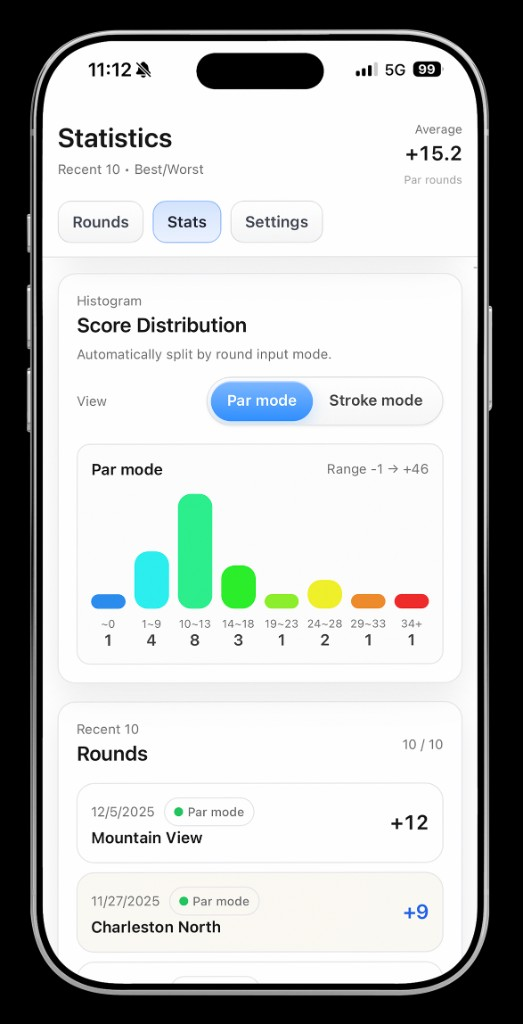
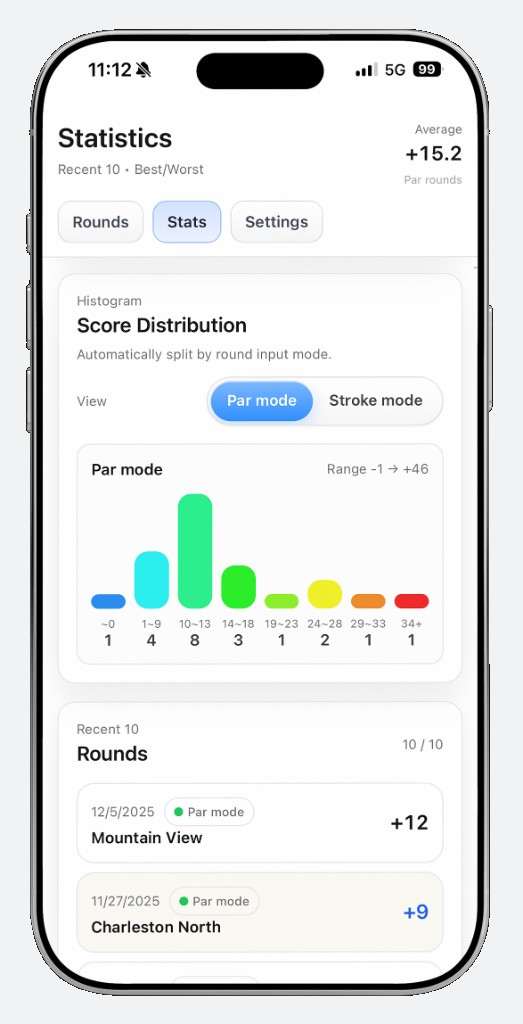
Add a Turnstile-protected contact form and lighten Golf mockups.
Get in touch now scrolls to a homepage form that emails contact@skyface.com via Resend, and the Score Card shots sit on a pale gray canvas.

Changed region(s): [[0.0, 0.0, 1.0, 1.0]]

diff --git a/js/site.js b/js/site.js
@@ -115,6 +115,9 @@
     }, { passive: true });
   }
 
+  const contactForm = document.getElementById("contactForm");
+  if (contactForm) initContactForm(contactForm);
+
   const reduce = window.matchMedia("(prefers-reduced-motion: reduce)").matches;
   const items = document.querySelectorAll(".reveal");
   if (reduce || !("IntersectionObserver" in window)) {
@@ -134,4 +137,96 @@
   );
 
   items.forEach((el) => io.observe(el));
+
+  function loadScript(src) {
+    return new Promise((resolve, reject) => {
+      const existing = [...document.scripts].find((node) => node.src.startsWith(src.split("?")[0]));
+      if (existing) {
+        if (window.turnstile) resolve();
+        else existing.addEventListener("load", resolve, { once: true });
+        return;
+      }
+      const script = document.createElement("script");
+      script.src = src;
+      script.async = true;
+      script.onload = resolve;
+      script.onerror = reject;
+      document.head.appendChild(script);
+    });
+  }
+
+  function initContactForm(form) {
+    const status = form.querySelector(".contact-status");
+    const submit = form.querySelector("[type='submit']");
+    const slot = form.querySelector("#turnstile");
+    let widgetId = null;
+
+    const setStatus = (msg, kind) => {
+      status.hidden = !msg;
+      status.textContent = msg || "";
+      status.classList.toggle("is-error", kind === "error");
+      status.classList.toggle("is-ok", kind === "ok");
+    };
+
+    const boot = async () => {
+      try {
+        const res = await fetch("/api/contact");
+        const data = await res.json().catch(() => ({}));
+        if (!res.ok || !data.siteKey) throw new Error();
+        await loadScript("https://challenges.cloudflare.com/turnstile/v0/api.js?render=explicit");
+        widgetId = window.turnstile.render(slot, {
+          sitekey: data.siteKey,
+          theme: "light",
+        });
+      } catch {
+        setStatus("Spam protection could not load. Try refreshing the page.", "error");
+        submit.disabled = true;
+      }
+    };
+
+    boot();
+
+    form.addEventListener("submit", async (event) => {
+      event.preventDefault();
+      const honey = form.querySelector("[name='company']");
+      if (honey && honey.value.trim()) {
+        setStatus("Thanks – we’ll get back to you soon.", "ok");
+        form.reset();
+        return;
+      }
+
+      const name = form.querySelector("[name='name']").value.trim();
+      const email = form.querySelector("[name='email']").value.trim();
+      const message = form.querySelector("[name='message']").value.trim();
+      const token = widgetId != null && window.turnstile ? window.turnstile.getResponse(widgetId) : "";
+
+      if (name.length < 2 || !email || message.length < 10) {
+        setStatus("Please fill in your name, email, and a short message.", "error");
+        return;
+      }
+      if (!token) {
+        setStatus("Please complete the spam check.", "error");
+        return;
+      }
+
+      submit.disabled = true;
+      setStatus("Sending…");
+      try {
+        const res = await fetch("/api/contact", {
+          method: "POST",
+          headers: { "Content-Type": "application/json" },
+          body: JSON.stringify({ name, email, message, token }),
+        });
+        const data = await res.json().catch(() => ({}));
+        if (!res.ok) throw new Error(data.error || "Send failed");
+        form.reset();
+        if (widgetId != null && window.turnstile) window.turnstile.reset(widgetId);
+        setStatus("Thanks – we’ll get back to you soon.", "ok");
+      } catch (err) {
+        setStatus(err.message || "Something went wrong. Please try again.", "error");
+      } finally {
+        submit.disabled = false;
+      }
+    });
+  }
 })();

diff --git a/api/contact.js b/api/contact.js
@@ -1,0 +1,115 @@
+const TO = process.env.CONTACT_TO || "contact@skyface.com";
+const FROM = process.env.CONTACT_FROM || "Skyface <contact@skyface.com>";
+const EMAIL = /^[^\s@]+@[^\s@]+\.[^\s@]+$/;
+
+function json(status, body) {
+  return new Response(JSON.stringify(body), {
+    status,
+    headers: {
+      "Content-Type": "application/json",
+      "Cache-Control": "no-store",
+    },
+  });
+}
+
+function escapeHtml(value) {
+  return String(value)
+    .replace(/&/g, "&amp;")
+    .replace(/</g, "&lt;")
+    .replace(/>/g, "&gt;")
+    .replace(/"/g, "&quot;");
+}
+
+export async function GET() {
+  const siteKey = process.env.TURNSTILE_SITE_KEY || "";
+  if (!siteKey) return json(503, { error: "Turnstile is not configured." });
+  return json(200, { siteKey });
+}
+
+export async function POST(request) {
+  const secret = process.env.TURNSTILE_SECRET_KEY;
+  const resendKey = process.env.RESEND_API_KEY;
+
+  if (!secret || !resendKey) {
+    console.error("Contact form missing TURNSTILE_SECRET_KEY or RESEND_API_KEY");
+    return json(503, { error: "The form is not configured yet." });
+  }
+
+  let payload;
+  try {
+    payload = await request.json();
+  } catch {
+    return json(400, { error: "Invalid request." });
+  }
+
+  const company = String(payload.company || "").trim();
+  if (company) return json(200, { ok: true });
+
+  const name = String(payload.name || "").trim();
+  const email = String(payload.email || "").trim();
+  const message = String(payload.message || "").trim();
+  const token = String(payload.token || "").trim();
+
+  if (name.length < 2 || name.length > 120) {
+    return json(400, { error: "Please enter your name." });
+  }
+  if (!EMAIL.test(email) || email.length > 200) {
+    return json(400, { error: "Please enter a valid email." });
+  }
+  if (message.length < 10 || message.length > 4000) {
+    return json(400, { error: "Please enter a message." });
+  }
+  if (!token) {
+    return json(400, { error: "Please complete the spam check." });
+  }
+
+  const verifyBody = new URLSearchParams({
+    secret,
+    response: token,
+  });
+  const ip = request.headers.get("x-forwarded-for")?.split(",")[0]?.trim();
+  if (ip) verifyBody.set("remoteip", ip);
+
+  const verifyRes = await fetch("https://challenges.cloudflare.com/turnstile/v0/siteverify", {
+    method: "POST",
+    headers: { "Content-Type": "application/x-www-form-urlencoded" },
+    body: verifyBody,
+  });
+  const verifyData = await verifyRes.json().catch(() => ({}));
+  if (!verifyData.success) {
+    console.error("Turnstile rejected", verifyData["error-codes"]);
+    return json(400, { error: "Spam check failed. Please try again." });
+  }
+
+  const html = `
+    <p><strong>Name:</strong> ${escapeHtml(name)}</p>
+    <p><strong>Email:</strong> ${escapeHtml(email)}</p>
+    <p><strong>Message:</strong></p>
+    <p>${escapeHtml(message).replace(/\n/g, "<br />")}</p>
+  `;
+
+  const sendRes = await fetch("https://api.resend.com/emails", {
+    method: "POST",
+    headers: {
+      Authorization: `Bearer ${resendKey}`,
+      "Content-Type": "application/json",
+      "Idempotency-Key": `contact/${crypto.randomUUID()}`,
+    },
+    body: JSON.stringify({
+      from: FROM,
+      to: [TO],
+      reply_to: email,
+      subject: `Skyface inquiry from ${name}`,
+      text: `Name: ${name}\nEmail: ${email}\n\n${message}`,
+      html,
+    }),
+  });
+
+  if (!sendRes.ok) {
+    const err = await sendRes.text();
+    console.error("Resend failed", sendRes.status, err.slice(0, 300));
+    return json(502, { error: "Could not send the message. Please try again." });
+  }
+
+  return json(200, { ok: true });
+}

diff --git a/index.html b/index.html
@@ -30,7 +30,7 @@
       <nav id="siteNav" class="site-nav">
         <a href="#work">Work</a>
         <a href="#practice">Practice</a>
-        <a class="btn btn-primary nav-cta" href="mailto:contact@skyface.com">Get in touch</a>
+        <a class="btn btn-primary nav-cta" href="#contact">Get in touch</a>
       </nav>
         <button class="nav-toggle" type="button" aria-expanded="false" aria-controls="siteNav" aria-label="Open menu">
           <svg class="icon-menu" viewBox="0 0 24 24" fill="none" stroke="currentColor" stroke-width="1.8" stroke-linecap="round" aria-hidden="true">
@@ -148,10 +148,26 @@
       <div class="wrap">
         <h2 class="reveal">Let’s design and build the next application.</h2>
         <p class="lede reveal">Web and mobile. From HCI and UI/UX through to a working product.</p>
-        <div class="contact-actions reveal">
-          <a class="btn btn-primary btn-lg" href="mailto:contact@skyface.com">Get in touch</a>
-          <a class="contact-mail" href="mailto:contact@skyface.com">contact@skyface.com</a>
-        </div>
+        <form class="contact-form reveal" id="contactForm" method="post" action="#contact" novalidate>
+          <label>
+            Name
+            <input type="text" name="name" autocomplete="name" required maxlength="120" />
+          </label>
+          <label>
+            Email
+            <input type="email" name="email" autocomplete="email" required maxlength="200" />
+          </label>
+          <label>
+            Message
+            <textarea name="message" required maxlength="4000" rows="6"></textarea>
+          </label>
+          <div class="hp" aria-hidden="true">
+            <label>Company <input type="text" name="company" tabindex="-1" autocomplete="off" /></label>
+          </div>
+          <div id="turnstile" class="contact-turnstile"></div>
+          <p class="contact-status" role="status" aria-live="polite" hidden></p>
+          <button type="submit" class="btn btn-primary btn-lg">Send message</button>
+        </form>
       </div>
     </section>
   </main>

diff --git a/css/site.css b/css/site.css
@@ -219,6 +219,12 @@ button {
   font-size: 15px;
 }
 
+.btn:disabled {
+  opacity: 0.55;
+  cursor: not-allowed;
+  transform: none;
+}
+
 main {
   margin-top: calc(-1 * var(--header-h));
 }
@@ -483,20 +489,70 @@ main.section {
   max-width: 32rem;
 }
 
-.contact-actions {
-  display: flex;
-  flex-direction: column;
-  align-items: center;
-  gap: 14px;
-  margin-top: 28px;
+.contact-form {
+  position: relative;
+  display: grid;
+  gap: 16px;
+  margin: 32px auto 0;
+  max-width: 32rem;
+  text-align: left;
 }
 
-.contact-mail {
-  font-size: 14.5px;
+.contact-form label {
+  display: grid;
+  gap: 6px;
+  font-size: 13px;
+  font-weight: 600;
+  color: var(--fg);
+}
+
+.contact-form input,
+.contact-form textarea {
+  width: 100%;
+  border: 1px solid var(--line-strong);
+  border-radius: 12px;
+  padding: 12px 14px;
+  background: #fff;
+  color: var(--fg);
+  font: inherit;
+  font-size: 15px;
+  font-weight: 400;
+}
+
+.contact-form textarea {
+  min-height: 140px;
+  resize: vertical;
+}
+
+.contact-form input:focus-visible,
+.contact-form textarea:focus-visible {
+  border-color: var(--fg);
+}
+
+.contact-turnstile {
+  min-height: 65px;
+}
+
+.contact-form .btn {
+  width: 100%;
+}
+
+.contact-status {
+  margin: 0;
+  font-size: 14px;
   color: var(--muted);
 }
 
-.contact-mail:hover { color: var(--fg); }
+.contact-status.is-error { color: #b42318; }
+.contact-status.is-ok { color: #067647; }
+
+.hp {
+  position: absolute;
+  width: 1px;
+  height: 1px;
+  overflow: hidden;
+  clip: rect(0 0 0 0);
+}
 
 /* Footer */
 .site-footer {

diff --git a/work/my-password-vault.html b/work/my-password-vault.html
@@ -26,7 +26,7 @@
       <nav id="siteNav" class="site-nav">
         <a href="../index.html#work" aria-current="page">Work</a>
         <a href="../index.html#practice">Practice</a>
-        <a class="btn btn-primary nav-cta" href="mailto:contact@skyface.com">Get in touch</a>
+        <a class="btn btn-primary nav-cta" href="../index.html#contact">Get in touch</a>
       </nav>
         <button class="nav-toggle" type="button" aria-expanded="false" aria-controls="siteNav" aria-label="Open menu">
           <svg class="icon-menu" viewBox="0 0 24 24" fill="none" stroke="currentColor" stroke-width="1.8" stroke-linecap="round" aria-hidden="true"><path d="M4 7h16M4 12h16M4 17h16" /></svg>

diff --git a/work/my-score-card-golf.html b/work/my-score-card-golf.html
@@ -26,7 +26,7 @@
       <nav id="siteNav" class="site-nav">
         <a href="../index.html#work" aria-current="page">Work</a>
         <a href="../index.html#practice">Practice</a>
-        <a class="btn btn-primary nav-cta" href="mailto:contact@skyface.com">Get in touch</a>
+        <a class="btn btn-primary nav-cta" href="../index.html#contact">Get in touch</a>
       </nav>
         <button class="nav-toggle" type="button" aria-expanded="false" aria-controls="siteNav" aria-label="Open menu">
           <svg class="icon-menu" viewBox="0 0 24 24" fill="none" stroke="currentColor" stroke-width="1.8" stroke-linecap="round" aria-hidden="true"><path d="M4 7h16M4 12h16M4 17h16" /></svg>

diff --git a/privacy/index.html b/privacy/index.html
@@ -26,7 +26,7 @@
       <nav id="siteNav" class="site-nav">
         <a href="../index.html#work">Work</a>
         <a href="../index.html#practice">Practice</a>
-        <a class="btn btn-primary nav-cta" href="mailto:contact@skyface.com">Get in touch</a>
+        <a class="btn btn-primary nav-cta" href="../index.html#contact">Get in touch</a>
       </nav>
         <button class="nav-toggle" type="button" aria-expanded="false" aria-controls="siteNav" aria-label="Open menu">
           <svg class="icon-menu" viewBox="0 0 24 24" fill="none" stroke="currentColor" stroke-width="1.8" stroke-linecap="round" aria-hidden="true"><path d="M4 7h16M4 12h16M4 17h16" /></svg>

diff --git a/privacy/my-score-card.html b/privacy/my-score-card.html
@@ -26,7 +26,7 @@
       <nav id="siteNav" class="site-nav">
         <a href="../index.html#work">Work</a>
         <a href="../index.html#practice">Practice</a>
-        <a class="btn btn-primary nav-cta" href="mailto:contact@skyface.com">Get in touch</a>
+        <a class="btn btn-primary nav-cta" href="../index.html#contact">Get in touch</a>
       </nav>
         <button class="nav-toggle" type="button" aria-expanded="false" aria-controls="siteNav" aria-label="Open menu">
           <svg class="icon-menu" viewBox="0 0 24 24" fill="none" stroke="currentColor" stroke-width="1.8" stroke-linecap="round" aria-hidden="true"><path d="M4 7h16M4 12h16M4 17h16" /></svg>
